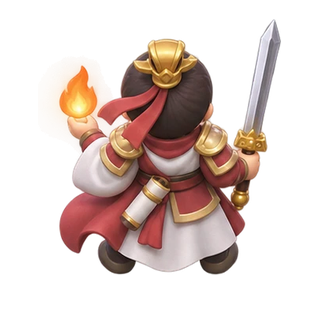
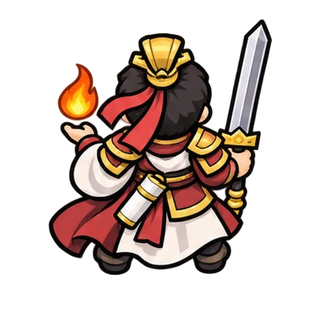
烽火守城：定稿国风 Q 版卡通画风，换上武将 1 的战场立绘和正面头像
- assets/_sheets/hero_1.png、head_1.png：粗黑描边的国风 Q 版卡通（诸葛亮、吕布、曹操、陆逊、关羽、张飞、周瑜、赵云、司马懿），
  切成 heroes/<id>.png 和 heroes/<id>_head.png；武将卡片、大招按钮、招募结果显示正脸
- 头像切图也只保留每格最大的一块（清掉邻格碎片）
- 出图提示词统一改成这套画风（武将、头像、敌人、背景、特效），以武将 1 / 头像 1 为标准；README 同步

Claude-Session: https://claude.ai/code/session_01L3jguFYprBTa7gYpFHSxvP

diff --git a/sanguo-td/tools/art-prompts-25d.html b/sanguo-td/tools/art-prompts-25d.html
@@ -58,13 +58,13 @@ section { display: flex; flex-direction: column; gap: 14px; }
 
 <div class="wrap">
   <header>
-    <h1>烽火守城 · <span>国风 3D</span> 出图</h1>
-    <p class="lede">烽火守城自己的画风：国风 Q 版角色 + 3D 卡通渲染质感，高俯视角、背身守城，场景暗沉、角色配色鲜明（布衣三国是二次元平涂 Q 版，两边区分开）。一共 14 张图：武将 4 张九宫格（32 名武将和 4 名未开放的神将）、武将正面头像 4 张、敌人 2 张（6 种敌兵和 9 位各章敌将）、战场背景 1 张、技能特效 3 张。每条提示词都带上了统一的画风、光照和机位。没画的部分游戏先用代码画的顶着。</p>
+    <h1>烽火守城 · <span>国风卡通</span> 出图</h1>
+    <p class="lede">烽火守城的画风：国风 Q 版卡通（粗黑描边、平涂加简单阴影、颜色鲜艳），高俯视角、背身守城，场景比角色暗。武将 1 和头像 1 已经画好，是后面所有图的标准：每次把它们一起发给 GPT。剩下 12 张：武将 2～4、头像 2～4、敌人 2 张、战场背景 1 张、技能特效 3 张。</p>
   </header>
 
   <ol class="steps">
     <li>每张图开一个<b>新对话</b>，点「复制」把整条提示词发给 ChatGPT（能画图的模型）。</li>
-    <li>先画<b>武将 1</b>。满意后再画其他的，每次在提示词后面附上武将 1 的成图，说“保持这张的画风、光照、比例和机位”。</li>
+    <li>每次在提示词后面附上已经画好的<b>武将 1</b>（画头像时附<b>头像 1</b>），说“保持这张的画风、线条、比例和机位”。</li>
     <li>九宫格里的顺序不能乱：从左到右、从上到下，和下面列的顺序一致，切图时按这个顺序对应武将。</li>
     <li>画好后按右边的<b>文件名</b>保存，直接发给 Claude（或放进 <span class="file">sanguo-td/assets/_sheets/</span>），由 Claude 切开、对齐、换进游戏。</li>
     <li>某一格画坏了，只要重画那一张九宫格，或者说“只重画第 N 格的人”。</li>
@@ -74,7 +74,7 @@ section { display: flex; flex-direction: column; gap: 14px; }
 </div>
 
 <script>
-const STYLE = '塔防手游的战场角色素材。画风：国风 Q 版角色，约 2.5～3 头身，3D 卡通渲染的质感（像 3D 建模后渲染出来的手游角色：有体积感、柔和的明暗和高光，不是平涂，没有粗黑描边）。造型简洁、轮廓清晰，衣袍、披风和飘带有流动感；每个角色只用 2～3 种主色，配色鲜明，在暗色地面上一眼能认出来；兵器和饰品可以带一点属性色的微光（火橙、冰蓝、雷紫、毒绿、风青），但不要大面积特效。光照：主光从左上方打来，带一圈淡淡的边缘光。视角：从高处俯视约 60°（能看到头顶和肩膀），固定机位、正交相机，所有角色同一机位、同一光照、同一比例。背景完全透明（PNG），不要地面、不要投影、不要任何文字和边框。';
+const STYLE = '塔防手游的战场角色素材。画风：国风 Q 版卡通，约 2～2.5 头身，头大身小；粗黑描边（线条干净、粗细均匀），平涂上色加一两层简单的阴影和高光，颜色鲜艳饱和，金色描边和饰品作点缀；造型简洁、轮廓清晰，衣袍、披风和飘带有动感；每个角色 2～3 种主色，缩小后也能一眼认出是谁。视角：从高处俯视约 60°（能看到头顶和肩膀），所有角色同一机位、同一比例、同一画风（附上的武将 1 成图就是标准）。背景完全透明（PNG），不要地面、不要投影、不要特效、不要任何文字和边框。';
 const GRID = '把下面 9 个角色画在同一张正方形大图里（1:1），3 行 3 列等分成 9 格，从左到右、从上到下依次排列。每格只画一个完整全身角色，不要裁切，角色之间留出空隙、互不重叠；9 个角色大小一致，脚底都在各自格子从上往下约 85% 的位置。';
 const HERO_POSE = '朝向：武将站在城楼平台上守城，背对镜头、面朝画面上方（远处来犯的敌军），俯视能看到后背、头顶和一点侧脸；手持标志性兵器，姿态有气势。';
 const ENEMY_POSE = '朝向：敌军朝城楼进攻，面朝镜头、朝画面下方走来（俯视能看到头顶和脸），手持兵器做冲锋的姿态。小兵造型简单、颜色偏暗；敌将体型更大、更华丽。';
@@ -149,9 +149,9 @@ const ENEMIES = [
     '（这一格留空）',
   ]],
 ];
-const BG = '塔防手游的竖版战场背景，3D 渲染质感，和国风 Q 版角色同一套画风，竖版 9:16。视角：从高处俯视约 60°。构图（从上到下）：上方约 75% 是城外的黄土战场：干裂的土地、车辙、碎石、零星枯草和残箭断戟，最上方约 15% 是远处的敌军营寨和旌旗，笼罩在烟尘里；战场地面平整开阔，不要大的障碍物和建筑，留给敌军行进；左右两边各约 9% 可以有拒马和残旗。下方约 25% 是我方城楼顶部的立体砖石平台（有厚度）：约 77% 高度处是平台前沿的一道矮垛墙，平台左右两侧各有一段矮墙往下延伸，围成“凹”字形；平台四个角立着带灯笼的石柱，两侧插着暗红色战旗，平台最前方两个角各蹲一只铜兽。平台地面是方形青石板，中间大片空地留给 5 名武将站，不要放任何东西。整体色调偏暗沉（城外暗褐、城楼青灰），给亮色的角色留出对比；光源从左上方来，柔和的阴影，四周略暗。画面里不要人物，不要文字和界面元素。';
+const BG = '塔防手游的竖版战场背景，和角色同一套国风卡通画风（粗描边、平涂加简单阴影），竖版 9:16。视角：从高处俯视约 60°。构图（从上到下）：上方约 75% 是城外的黄土战场：干裂的土地、车辙、碎石、零星枯草和残箭断戟，最上方约 15% 是远处的敌军营寨和旌旗，笼罩在烟尘里；战场地面平整开阔，不要大的障碍物和建筑，留给敌军行进；左右两边各约 9% 可以有拒马和残旗。下方约 25% 是我方城楼顶部的砖石平台（有厚度）：约 77% 高度处是平台前沿的一道矮垛墙，平台左右两侧各有一段矮墙往下延伸，围成“凹”字形；平台四个角立着带灯笼的石柱，两侧插着暗红色战旗，平台最前方两个角各蹲一只铜兽。平台地面是方形青石板，中间大片空地留给 5 名武将站，不要放任何东西。整体色调比角色暗一些（城外暗褐、城楼青灰），让鲜艳的角色跳出来；光源从左上方来。画面里不要人物，不要文字和界面元素。';
 
-const FX_STYLE = '游戏技能特效贴图。画风：手游 3D 卡通风格的技能特效，造型干净、颜色鲜亮、发光强烈，带少量粒子和光点；不要写实的烟雾，也不要二次元描边平涂。背景必须是纯黑色（#000000），特效本身发光（游戏用叠加混合把黑色去掉）。不要任何文字和边框。';
+const FX_STYLE = '游戏技能特效贴图。画风：和角色同一套国风卡通手游风格：造型干净利落、颜色鲜亮、发光强烈，光效形状清晰（像卡通里的刀光、火焰、闪电），带少量光点；不要写实烟雾。背景必须是纯黑色（#000000），特效本身发光（游戏用叠加混合把黑色去掉）。不要任何文字和边框。';
 const FX_GRID = '把下面 9 种特效画在同一张正方形大图里（1:1），3 行 3 列等分成 9 格，从左到右、从上到下依次排列；每格一种特效，居中，四周留出黑边，不要超出格子、不要互相重叠。方向要求照每一条写的画（游戏会旋转它们）。';
 const FX = [
   ['fx_1', '特效 1（刀光、火焰、落雷、箭矢）', [
@@ -184,11 +184,11 @@ const FX = [
   ]],
 ];
 
-const HEAD = '游戏角色头像。画风：和战场角色同一套国风 Q 版、3D 卡通渲染质感，五官精致、表情符合性格，配色和战场角色一致。构图：正面略侧的胸像（头顶到胸口），人物居中。背景完全透明（PNG），不要任何文字和边框。\n\n把下面 9 个人物的头像画在同一张正方形大图里（1:1），3 行 3 列等分成 9 格，从左到右、从上到下依次排列；每格一个胸像，大小一致，头顶都留出少量空白，不要互相重叠。';
+const HEAD = '游戏角色头像。画风：和战场角色同一套国风 Q 版卡通：粗黑描边、平涂加简单阴影、颜色鲜艳，五官有神、表情符合性格（附上的头像 1 成图就是标准）。构图：正面略侧的胸像，手里拿着标志性兵器，胸像下沿切成一道弧线；人物居中。背景完全透明（PNG），不要任何文字和边框。\n\n把下面 9 个人物的头像画在同一张正方形大图里（1:1），3 行 3 列等分成 9 格，从左到右、从上到下依次排列；每格一个胸像，大小一致，头顶都留出少量空白，不要互相重叠。';
 
 const sheetPrompt = (pose, list) => STYLE + '\n\n' + pose + '\n\n' + GRID + '\n\n' + list.map((t, i) => (i + 1) + '. ' + t).join('\n');
 const groups = [
-  { title: '武将', note: '4 张九宫格。武将背对镜头、面朝远处的敌军，和城楼上守城的视角一致。之前按写实画风画的武将 1 要按这套重画。', items: HEROES.map(h => ({ file: h[0] + '.png', name: h[1], who: h[2].map(t => t.split('：')[0]).join('、'), text: sheetPrompt(HERO_POSE, h[2]) })) },
+  { title: '武将', note: '4 张九宫格。武将背对镜头、面朝远处的敌军，和城楼上守城的视角一致。武将 1 已画好（就是标准），接着画 2～4。', items: HEROES.map(h => ({ file: h[0] + '.png', name: h[1], who: h[2].map(t => t.split('：')[0]).join('、'), text: sheetPrompt(HERO_POSE, h[2]) })) },
   { title: '武将头像', note: '4 张九宫格，顺序和上面的武将拼图一一对应。用在武将卡片、大招按钮和招募结果上；没画之前用战场立绘的上半身。', items: HEROES.map(h => ({ file: 'head_' + h[0].slice(5) + '.png', name: h[1].replace('武将', '头像'), who: h[2].map(t => t.split('：')[0]).join('、'), text: HEAD + '\n\n' + h[2].map((t, i) => (i + 1) + '. ' + t).join('\n') })) },
   { title: '敌人', note: '2 张九宫格。敌人面朝镜头往城墙走来。', items: ENEMIES.map(h => ({ file: h[0] + '.png', name: h[1], who: h[2].filter(t => !t.startsWith('（')).map(t => t.split('：')[0]).join('、'), text: sheetPrompt(ENEMY_POSE, h[2]) })) },
   { title: '战场背景', note: '1 张，建议最先画：整体观感变化最大。城楼平台和武将站的位置要按比例画，游戏里的站位是对着这张图定的。', items: [{ file: 'battle.png', name: '战场背景', who: '城墙、荒原、远处敌营', text: BG }] },

diff --git a/sanguo-td/assets/manifest.js b/sanguo-td/assets/manifest.js
@@ -2,12 +2,21 @@
  * 由 serve.ps1 或 tools/slice_sheets.py 自动生成，也可以手动编辑。 */
 window.ASSET_LIST = [
   'heroes/caocao.png',
+  'heroes/caocao_head.png',
   'heroes/guanyu.png',
+  'heroes/guanyu_head.png',
   'heroes/luxun.png',
+  'heroes/luxun_head.png',
   'heroes/lvbu.png',
+  'heroes/lvbu_head.png',
   'heroes/simayi.png',
+  'heroes/simayi_head.png',
   'heroes/zhangfei.png',
+  'heroes/zhangfei_head.png',
   'heroes/zhaoyun.png',
+  'heroes/zhaoyun_head.png',
   'heroes/zhouyu.png',
+  'heroes/zhouyu_head.png',
   'heroes/zhugeliang.png',
+  'heroes/zhugeliang_head.png',
 ];

diff --git a/sanguo-td/tools/slice_sheets.py b/sanguo-td/tools/slice_sheets.py
@@ -121,7 +121,7 @@ def main():
         os.makedirs(os.path.join(DST, 'heroes'), exist_ok=True)
         for i, cid in enumerate(ids):
             col, row = i % 3, i // 3
-            cell = sheet.crop((col * w // 3, row * h // 3, (col + 1) * w // 3, (row + 1) * h // 3))
+            cell = keep_main(sheet.crop((col * w // 3, row * h // 3, (col + 1) * w // 3, (row + 1) * h // 3)))
             box = cell.getchannel('A').point(lambda a: 255 if a > 24 else 0).getbbox()
             if not box:
                 continue

diff --git a/sanguo-td/README.md b/sanguo-td/README.md
@@ -83,11 +83,11 @@ sanguo-td/
 
 ## 美术现状（v0.4）
 
-- **烽火守城走自己的画风，不用布衣三国的素材**：目标是偏写实的 2.5D 渲染质感（布衣三国是二次元 Q 版）。
-- 现在人物、敌人还是代码画的占位小人；技能特效由 `js/fxgen.js` 启动时用代码生成（刀光、火焰、落雷、爆炸、冰棱、气旋、阵图等），叠加混合发光。
+- **烽火守城走自己的画风，不用布衣三国的素材**：国风 Q 版卡通（粗黑描边、平涂加简单阴影、颜色鲜艳），高俯视角、武将背身守城，脚下深色圆形底座。
+- 已画好：武将 1（诸葛亮、吕布、曹操、陆逊、关羽、张飞、周瑜、赵云、司马懿）的战场立绘和正面头像。其余武将、敌人还是代码画的占位小人；技能特效由 `js/fxgen.js` 启动时用代码生成（刀光、火焰、落雷、爆炸、冰棱、气旋、阵图等），叠加混合发光。
 - 2.5D：敌人远小近大、远处烟尘罩层、左上暖光、暗角调色、地面颗粒；有立绘图片时自动加斜投影。
-- **出图**：提示词在 `tools/art-prompts-25d.html`（10 张：武将 4 张九宫格、敌人 2 张、战场背景 1 张、技能特效 3 张）。
-  画好后放进 `assets/_sheets/`（hero_1.png … hero_4.png、enemy_1.png、enemy_2.png、battle.png、fx_1.png … fx_3.png），在仓库根目录运行：
+- **出图**：提示词在 `tools/art-prompts-25d.html`（武将 4 张九宫格、头像 4 张、敌人 2 张、战场背景 1 张、技能特效 3 张）。
+  画好后放进 `assets/_sheets/`（hero_1.png … hero_4.png、head_1.png … head_4.png、enemy_1.png、enemy_2.png、battle.png、fx_1.png … fx_3.png），在仓库根目录运行：
   ```
   python3 sanguo-td/tools/slice_sheets.py
   ```
